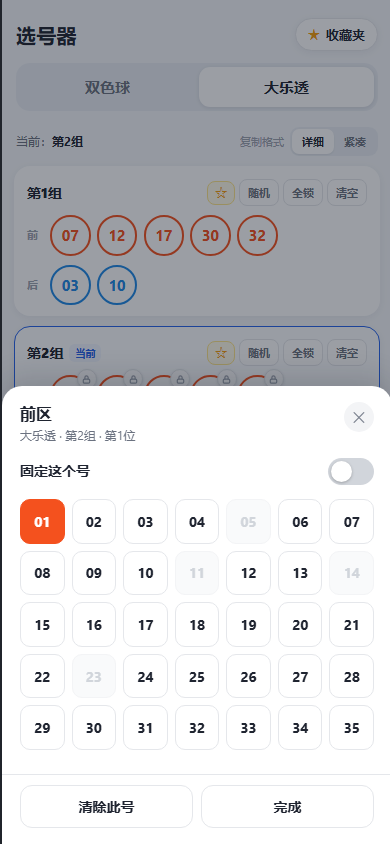
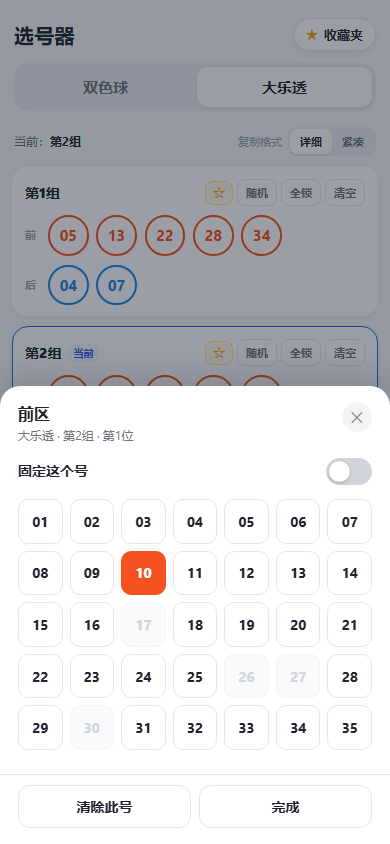
docs: refresh screenshots and document undo/keyboard support

diff --git a/README.md b/README.md
@@ -11,15 +11,16 @@
 - 两个模式各 5 组，切换时各自保留，互不影响
 - **改号**：点任意号码弹出数字面板；同区已用数字置灰，点数字即选中
 - **固定**：
-  - 点当前组号码右上角的小锁；
-  - 或长按号码；
+  - 长按号码；
   - 或点开号码后打开「固定这个号」；
-  - 每组还有「全锁 / 全解锁」一键切换
+  - 每组还有「全锁 / 全解锁」一键切换；
+  - 已固定的号码右上角会显示一枚小锁（只是状态标记，不用点它）
 - **随机**：只重抽未固定的号码，固定号原样保留；抽完自动升序
 - **收藏夹**：收藏某一组号码，一键写入当前组（写入后全部变为未固定）
-- **复制**：详细 / 紧凑两种格式；有空位时自动随机补全再复制
+- **复制**：详细 / 紧凑两种格式；有空位时自动随机补全再复制，提示条里可以「撤销」
 - **自动保存**：号码、固定状态、收藏都保存在浏览器 localStorage
 - 浅色主题，手机 / 桌面均可用，**无任何网络请求**
+- 键盘可用：数字面板里 Tab 不会跑出弹层，Esc 关闭；改完号焦点会留在原处
 
 ### 界面
 
@@ -32,7 +33,7 @@
 直接双击 `index.html`，或部署后手机浏览器打开。
 
 1. 顶部选「双色球 / 大乐透」
-2. 点任意号码改号；长按号码或点小锁固定
+2. 点任意号码改号；长按号码（或打开号码后拨动「固定这个号」）来固定
 3. 点「随机」只补未固定的；点「全部随机」一次生成 5 组
 4. 满意的组点 ☆ 收藏；收藏夹里选目标组，点「写入」
 5. 点「复制 5 组」，得到文本
@@ -57,6 +58,10 @@
 ```
 
 大乐透对应为 `前 ... + 后 ...` 和 `...+...`。
+
+## 兼容性
+
+用到了 `clamp()`、`aspect-ratio`、`inset` 等现代 CSS，以及 `Element.closest`、`Set` 等 API，需要 2020 年之后的浏览器（Chrome / Edge 88+、iOS 15+、新版 Firefox / Safari）。不支持 IE。
 
 ## 项目结构
 
@@ -124,6 +129,7 @@ git config --global user.email "你的邮箱"
 ## 自定义
 
 - 号码范围、每区个数：改 `index.html` 里的 `MODES` 配置。
+- 组数：改 `GROUP_COUNT`，按钮文案和复制出来的文本会自动跟随。
 - 主题色：改 CSS 变量 `--red` / `--blue` / `--orange` / `--accent` 等。
 - 标题、提示文案、免责声明：直接在 HTML 里改。
 
